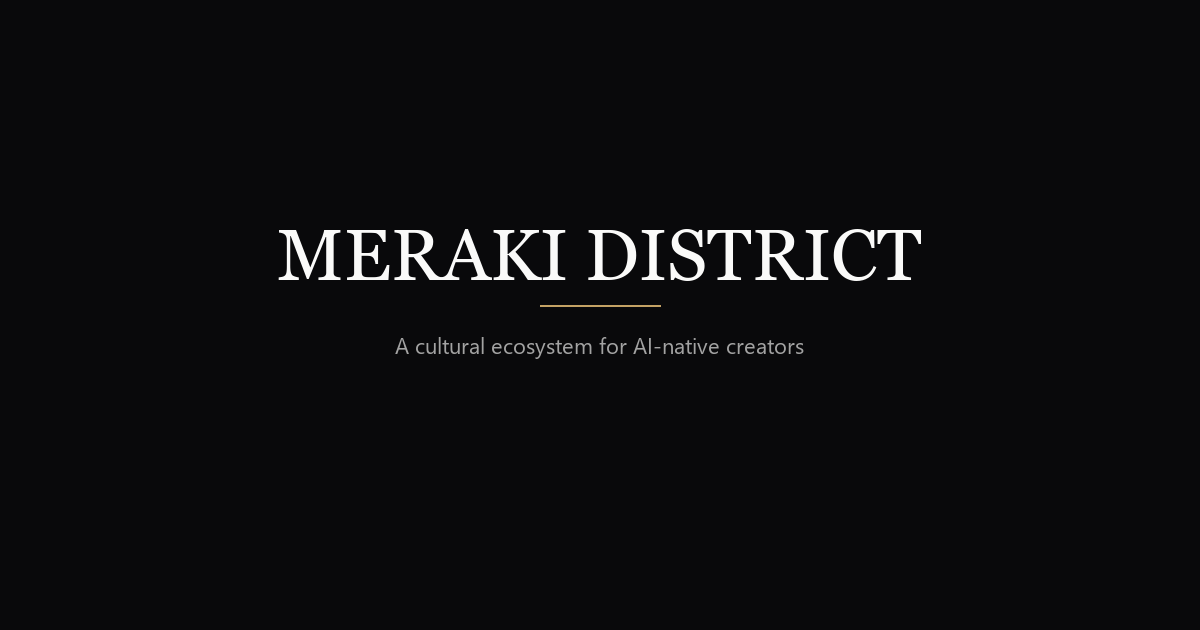
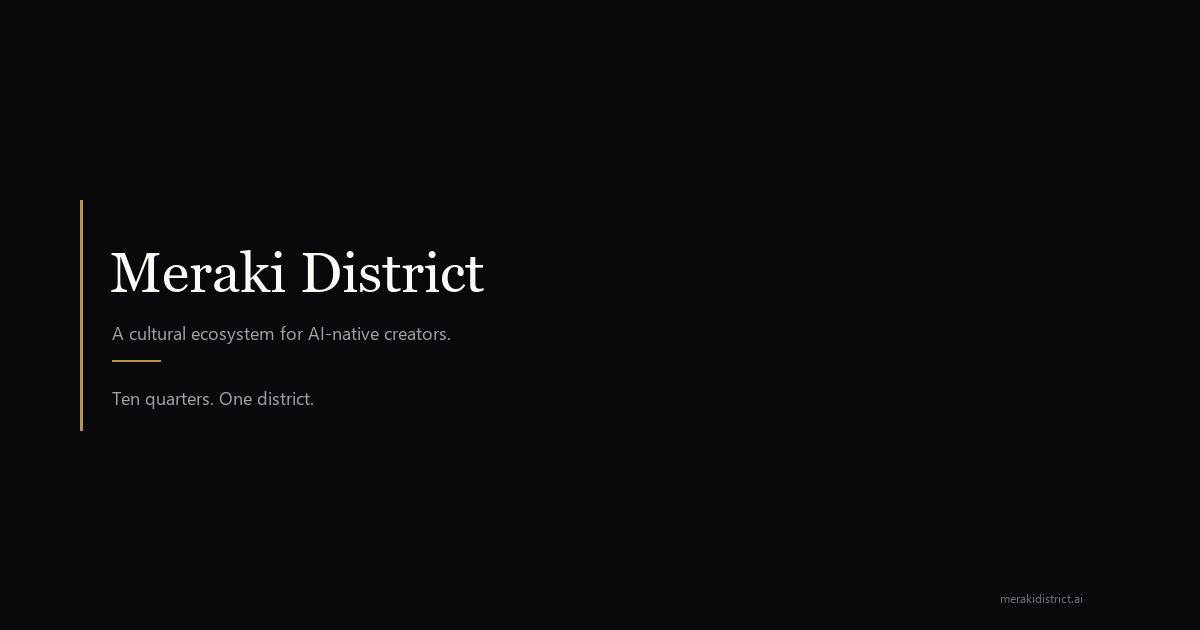
feat: quarter page animation upgrade + OG image + canonical fix
Quarter detail pages now match the site's editorial animation language:
- Word-reveal on hero title (words rise through overflow mask)
- Word-reveal on pull quote (scroll-triggered, staggered)
- Hero content staggered entrance (overline, title, number)
- useParallax composable on hero image (replaces inline)
- useTilt on explore-more cards (3D perspective on hover)

OG image: created proper 1200x630 branded card (dark bg, gold
accent, serif wordmark). Pointed og:image and twitter:image to it.

Canonical URL: replaced broken runtimeConfig approach with
useRequestURL() which works correctly in both SSR and client.

diff --git a/app/pages/quarters/[slug].vue b/app/pages/quarters/[slug].vue
@@ -1,7 +1,7 @@
 <template>
   <div v-if="quarter" ref="root">
     <!-- Hero -->
-    <section class="q-hero">
+    <section ref="heroSection" class="q-hero">
       <div class="q-hero-image-wrap">
         <img
           :src="quarter.image"
@@ -13,7 +13,7 @@
       </div>
       <div class="q-hero-content section-default">
         <p class="overline">{{ quarter.type }}</p>
-        <h1 class="q-hero-title">{{ quarter.name }}</h1>
+        <h1 ref="heroTitle" class="q-hero-title">{{ quarter.name }}</h1>
         <span class="q-hero-number">{{ quarter.number }}</span>
       </div>
     </section>
@@ -27,10 +27,10 @@
     </section>
 
     <!-- Pull Quote -->
-    <section class="q-quote section-dark">
+    <section ref="quoteSection" class="q-quote section-dark">
       <div class="section-default q-quote-inner">
-        <blockquote class="q-quote-text reveal">
-          <p>\u201c{{ quarter.pullQuote }}\u201d</p>
+        <blockquote class="q-quote-text">
+          <p class="word-reveal">\u201c{{ quarter.pullQuote }}\u201d</p>
         </blockquote>
       </div>
     </section>
@@ -126,6 +126,7 @@ import { ScrollTrigger } from 'gsap/ScrollTrigger'
 import { waitForAncestorAnimations } from '~/composables/useGsapScrollReveal'
 import { useGsapScrollReveal } from '~/composables/useGsapScrollReveal'
 import { useParallax } from '~/composables/useParallax'
+import { useTilt } from '~/composables/useInteractions'
 import { quarters, useQuarter } from '~/composables/useQuarters'
 
 const route = useRoute()
@@ -146,17 +147,77 @@ useHead(computed(() => ({
 })))
 
 const root = ref<HTMLElement | null>(null)
+const heroSection = ref<HTMLElement | null>(null)
+const heroTitle = ref<HTMLElement | null>(null)
 const bodySection = ref<HTMLElement | null>(null)
+const quoteSection = ref<HTMLElement | null>(null)
 const offeringsSection = ref<HTMLElement | null>(null)
 const statusSection = ref<HTMLElement | null>(null)
 const navSection = ref<HTMLElement | null>(null)
 
+// Composable-driven animations (run once on mount)
 useGsapScrollReveal(bodySection, '.reveal', { stagger: 0.1 })
 useGsapScrollReveal(offeringsSection, '.reveal', { stagger: 0.08 })
 useGsapScrollReveal(statusSection, '.reveal', { stagger: 0.1 })
 useGsapScrollReveal(navSection, '.reveal', { stagger: 0.12 })
+useParallax(heroSection, '.q-hero-image', { speed: 0.08 })
+useTilt(navSection, '.q-explore-card', { maxRotation: 2 })
 
 let ctx: gsap.Context | null = null
+
+/**
+ * Split text into word-reveal spans and animate.
+ * Reproduces useWordReveal logic inline so it can re-run on slug changes.
+ */
+function wordReveal(el: HTMLElement, opts: { stagger?: number; duration?: number; y?: number } = {}) {
+  const { stagger = 0.07, duration = 1.1, y = 70 } = opts
+  const text = el.textContent || ''
+  const words = text.trim().split(/\s+/)
+  el.style.display = 'flex'
+  el.style.flexWrap = 'wrap'
+  el.style.columnGap = '0.27em'
+  el.innerHTML = words.map(word =>
+    '<span class="wr-mask" style="display:inline-flex;overflow:hidden;vertical-align:bottom;padding-bottom:0.1em">' +
+    '<span class="wr-word" style="display:inline-block;will-change:transform">' + word + '</span>' +
+    '</span>'
+  ).join('')
+
+  gsap.from(el.querySelectorAll('.wr-word'), {
+    yPercent: y,
+    duration,
+    stagger,
+    ease: 'power2.out',
+  })
+}
+
+/**
+ * Split quote text and animate with ScrollTrigger.
+ */
+function quoteWordReveal(el: HTMLElement) {
+  const text = el.textContent || ''
+  const words = text.trim().split(/\s+/)
+  el.style.display = 'flex'
+  el.style.flexWrap = 'wrap'
+  el.style.columnGap = '0.27em'
+  el.style.justifyContent = 'center'
+  el.innerHTML = words.map(word =>
+    '<span class="wr-mask" style="display:inline-flex;overflow:hidden;vertical-align:bottom;padding-bottom:0.1em">' +
+    '<span class="wr-word" style="display:inline-block;will-change:transform">' + word + '</span>' +
+    '</span>'
+  ).join('')
+
+  gsap.from(el.querySelectorAll('.wr-word'), {
+    yPercent: 70,
+    duration: 1.2,
+    stagger: 0.04,
+    ease: 'power2.out',
+    scrollTrigger: {
+      trigger: el.closest('.q-quote') || el,
+      start: 'top 75%',
+      toggleActions: 'play none none none',
+    },
+  })
+}
 
 function initAnimations() {
   if (!root.value) return
@@ -166,29 +227,36 @@ function initAnimations() {
   ctx?.revert()
 
   ctx = gsap.context(() => {
-    // Hero image zoom
+    // Hero image zoom entrance
     gsap.from('.q-hero-image', {
       scale: 1.1,
       duration: 1.8,
       ease: 'power3.out',
     })
 
-    // Hero parallax
-    gsap.fromTo('.q-hero-image',
-      { yPercent: -3 },
-      {
-        yPercent: 8,
-        ease: 'none',
-        scrollTrigger: {
-          trigger: '.q-hero',
-          start: 'top top',
-          end: 'bottom top',
-          scrub: true,
-        },
-      }
-    )
+    // Hero content staggered entrance
+    gsap.from('.q-hero-content .overline', {
+      opacity: 0,
+      y: 15,
+      duration: 0.6,
+      ease: 'power3.out',
+      delay: 0.3,
+    })
 
-    // Rule draw
+    gsap.from('.q-hero-number', {
+      opacity: 0,
+      y: 10,
+      duration: 0.5,
+      ease: 'power3.out',
+      delay: 0.8,
+    })
+
+    // Hero title word-reveal
+    if (heroTitle.value) {
+      wordReveal(heroTitle.value, { stagger: 0.06, duration: 1.0, y: 80 })
+    }
+
+    // Gold rule draw
     gsap.from('.q-rule', {
       scaleX: 0,
       duration: 0.8,
@@ -200,18 +268,11 @@ function initAnimations() {
       },
     })
 
-    // Quote entrance
-    gsap.from('.q-quote-text', {
-      opacity: 0,
-      y: 40,
-      duration: 1,
-      ease: 'power3.out',
-      scrollTrigger: {
-        trigger: '.q-quote',
-        start: 'top 75%',
-        toggleActions: 'play none none none',
-      },
-    })
+    // Pull quote word-reveal on scroll
+    const quoteP = root.value?.querySelector('.q-quote-text .word-reveal')
+    if (quoteP) {
+      quoteWordReveal(quoteP as HTMLElement)
+    }
   }, root.value)
 }
 

diff --git a/nuxt.config.ts b/nuxt.config.ts
@@ -48,10 +48,10 @@ export default defineNuxtConfig({
         { name: 'theme-color', content: '#09090B' },
         { property: 'og:site_name', content: 'Meraki District' },
         { property: 'og:locale', content: 'en_US' },
-        { property: 'og:image', content: (process.env.NUXT_PUBLIC_SITE_URL || 'https://meraki-district.vercel.app') + '/images/hero-bg.webp' },
+        { property: 'og:image', content: (process.env.NUXT_PUBLIC_SITE_URL || 'https://meraki-district.vercel.app') + '/images/og-default.png' },
         { property: 'og:image:width', content: '1200' },
         { property: 'og:image:height', content: '630' },
-        { name: 'twitter:image', content: (process.env.NUXT_PUBLIC_SITE_URL || 'https://meraki-district.vercel.app') + '/images/hero-bg.webp' },
+        { name: 'twitter:image', content: (process.env.NUXT_PUBLIC_SITE_URL || 'https://meraki-district.vercel.app') + '/images/og-default.png' },
       ],
       link: [
         { rel: 'icon', type: 'image/svg+xml', href: '/favicon.svg' },

diff --git a/app/app.vue b/app/app.vue
@@ -6,12 +6,11 @@
 
 <script setup lang="ts">
 const route = useRoute()
-const { site } = useRuntimeConfig().public as { site?: { url?: string } }
-const siteUrl = site?.url || 'https://meraki-district.vercel.app'
+const requestUrl = useRequestURL()
 
 useHead(computed(() => ({
   link: [
-    { rel: 'canonical', href: siteUrl + route.path },
+    { rel: 'canonical', href: requestUrl.origin + route.path },
   ],
 })))
 </script>
